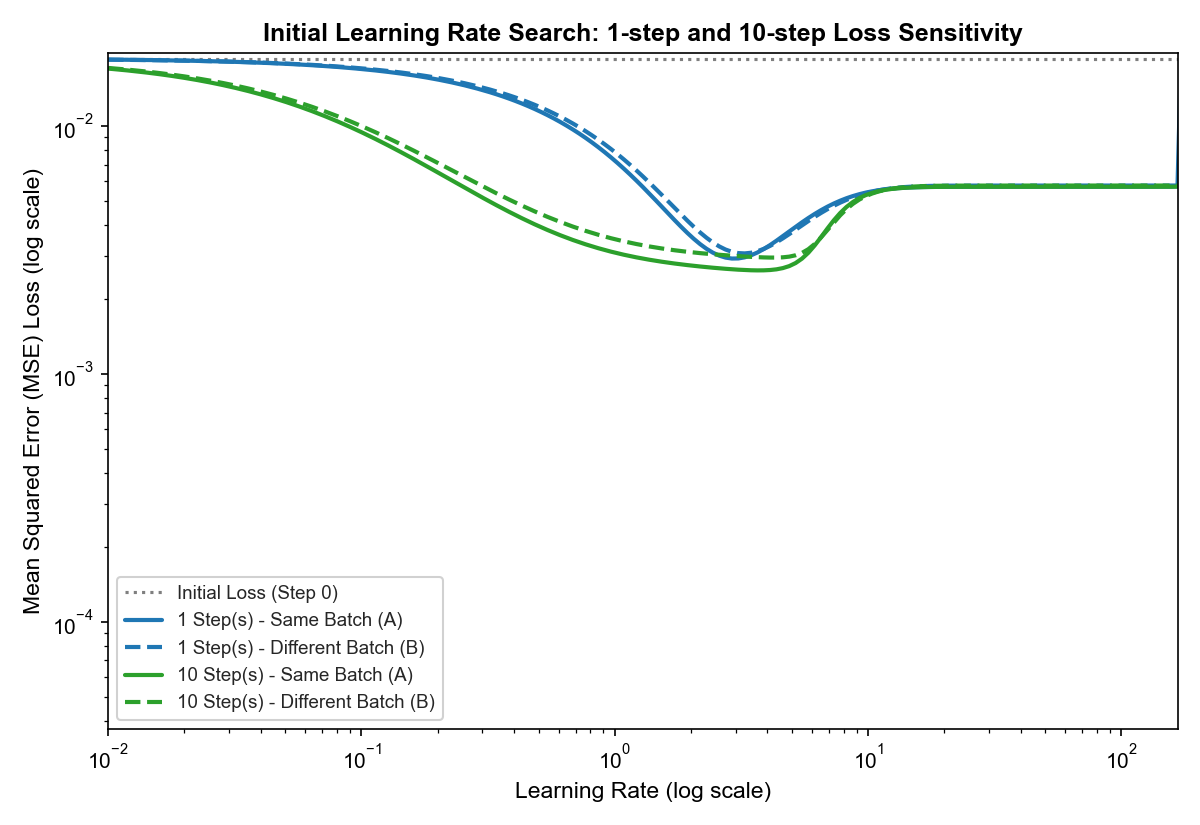
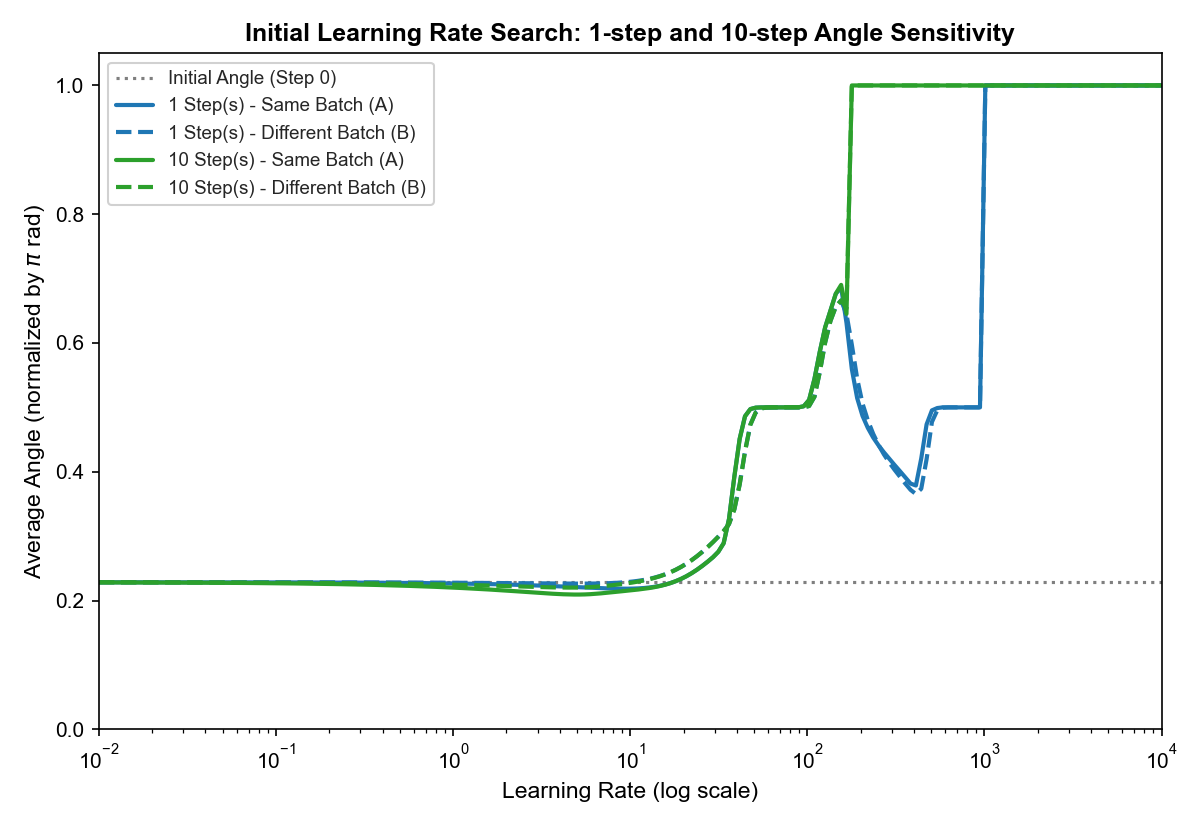
Change initial LR search to use average angle and expand limits to [10^-2, 10^4]

diff --git a/index.html b/index.html
@@ -238,7 +238,7 @@
                 </div>
                 <div class="badge">
                     <span class="badge-label">Execution Time</span>
-                    <span class="badge-value">11.82s</span>
+                    <span class="badge-value">11.11s</span>
                 </div>
             </div>
         </header>
@@ -337,7 +337,7 @@
         </main>
 
         <footer>
-            <p>Generated by Antigravity AI Code Assistant • Core Stack: PyTorch, NumPy, Matplotlib • 2026-06-03 15:35:22</p>
+            <p>Generated by Antigravity AI Code Assistant • Core Stack: PyTorch, NumPy, Matplotlib • 2026-06-03 15:37:16</p>
         </footer>
     </div>
 </body>

diff --git a/reports/index.html b/reports/index.html
@@ -238,7 +238,7 @@
                 </div>
                 <div class="badge">
                     <span class="badge-label">Execution Time</span>
-                    <span class="badge-value">11.82s</span>
+                    <span class="badge-value">11.11s</span>
                 </div>
             </div>
         </header>
@@ -337,7 +337,7 @@
         </main>
 
         <footer>
-            <p>Generated by Antigravity AI Code Assistant • Core Stack: PyTorch, NumPy, Matplotlib • 2026-06-03 15:35:22</p>
+            <p>Generated by Antigravity AI Code Assistant • Core Stack: PyTorch, NumPy, Matplotlib • 2026-06-03 15:37:16</p>
         </footer>
     </div>
 </body>

diff --git a/visualize.py b/visualize.py
@@ -39,8 +39,8 @@ def compute_average_angle(pred, target):
     return torch.mean(angles_normalized).item()
 
 def run_initial_lr_search(student_initial_state, teacher, dim, batch_size, num_rows):
-    """Computes and plots the learning rate sensitivity (1-step and 10-step losses) over a grid of learning rates."""
-    print("\nRunning Initial Learning Rate Search (1-step and 10-step sensitivity)...")
+    """Computes and plots the learning rate sensitivity (1-step and 10-step average angle) over a grid of learning rates."""
+    print("\nRunning Initial Learning Rate Search (1-step and 10-step average angle sensitivity)...")
     student_init = MultiLayerSelfAttention(dim, num_layers=len(list(teacher)))
     student_init.load_state_dict(copy.deepcopy(student_initial_state))
     
@@ -54,9 +54,10 @@ def run_initial_lr_search(student_initial_state, teacher, dim, batch_size, num_r
         batch_y_b = teacher(batch_x_b)
 
     with torch.no_grad():
-        init_loss_a = torch.mean((student_init(batch_x_a) - batch_y_a) ** 2).item()
+        init_angle_a = compute_average_angle(student_init(batch_x_a), batch_y_a)
 
-    lrs = np.logspace(-2, 3, 200)
+    # Expanded search boundaries to make sure the space where it increases is included
+    lrs = np.logspace(-2, 4, 200)
     steps_list = [1, 10]
     results = {s: {"same": [], "diff": []} for s in steps_list}
 
@@ -69,36 +70,35 @@ def run_initial_lr_search(student_initial_state, teacher, dim, batch_size, num_r
                 step_classic(model, batch_x_a, batch_y_a, lr)
                 
             with torch.no_grad():
-                loss_same = torch.mean((model(batch_x_a) - batch_y_a) ** 2).item()
-                loss_diff = torch.mean((model(batch_x_b) - batch_y_b) ** 2).item()
+                pred_same = model(batch_x_a)
+                pred_diff = model(batch_x_b)
+                angle_same = compute_average_angle(pred_same, batch_y_a)
+                angle_diff = compute_average_angle(pred_diff, batch_y_b)
+                if not math.isfinite(angle_same):
+                    angle_same = 1.0
+                if not math.isfinite(angle_diff):
+                    angle_diff = 1.0
                 
-            results[steps]["same"].append(loss_same)
-            results[steps]["diff"].append(loss_diff)
-
-    stable_lrs = []
-    for s in steps_list:
-        for lr, loss in zip(lrs, results[s]["same"]):
-            if loss < init_loss_a:
-                stable_lrs.append(lr)
-    max_stable_lr = max(stable_lrs) if stable_lrs else lrs[-1]
+            results[steps]["same"].append(angle_same)
+            results[steps]["diff"].append(angle_diff)
 
     fig, ax = plt.subplots(figsize=(8, 5.5), dpi=150)
     plt.style.use('seaborn-v0_8-whitegrid')
     colors = {1: '#1f77b4', 10: '#2ca02c'}
 
-    ax.axhline(init_loss_a, color='#7f7f7f', linestyle=':', linewidth=1.5, label='Initial Loss (Step 0)')
+    ax.axhline(init_angle_a, color='#7f7f7f', linestyle=':', linewidth=1.5, label='Initial Angle (Step 0)')
     for s in steps_list:
         ax.plot(lrs, results[s]["same"], label=f'{s} Step(s) - Same Batch (A)', color=colors[s], linewidth=2.0)
         ax.plot(lrs, results[s]["diff"], label=f'{s} Step(s) - Different Batch (B)', color=colors[s], linestyle='--', linewidth=2.0)
 
     ax.set_xscale('log')
-    ax.set_yscale('log')
-    ax.set_xlim(lrs[0], max_stable_lr)
-    ax.set_ylim(None, init_loss_a * 1.05)
+    ax.set_yscale('linear')
+    ax.set_xlim(lrs[0], lrs[-1])
+    ax.set_ylim(0.0, 1.05)
 
     ax.set_xlabel('Learning Rate (log scale)', fontsize=11)
-    ax.set_ylabel('Mean Squared Error (MSE) Loss (log scale)', fontsize=11)
-    ax.set_title('Initial Learning Rate Search: 1-step and 10-step Loss Sensitivity', fontsize=12, fontweight='bold')
+    ax.set_ylabel(r'Average Angle (normalized by $\pi$ rad)', fontsize=11)
+    ax.set_title('Initial Learning Rate Search: 1-step and 10-step Angle Sensitivity', fontsize=12, fontweight='bold')
     ax.legend(frameon=True, facecolor='white', framealpha=0.9, fontsize=9)
 
     plt.tight_layout()